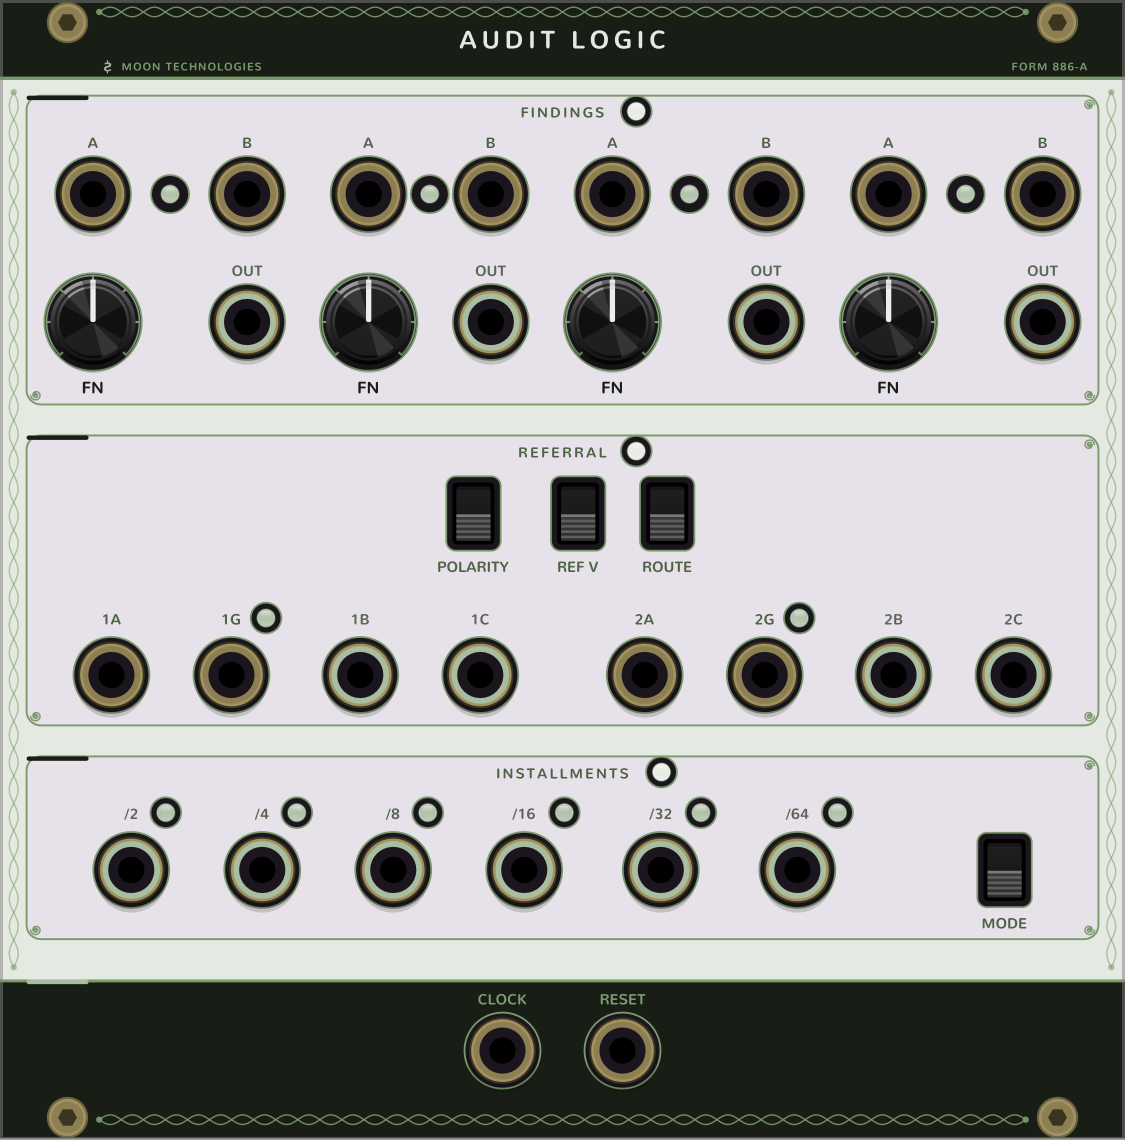
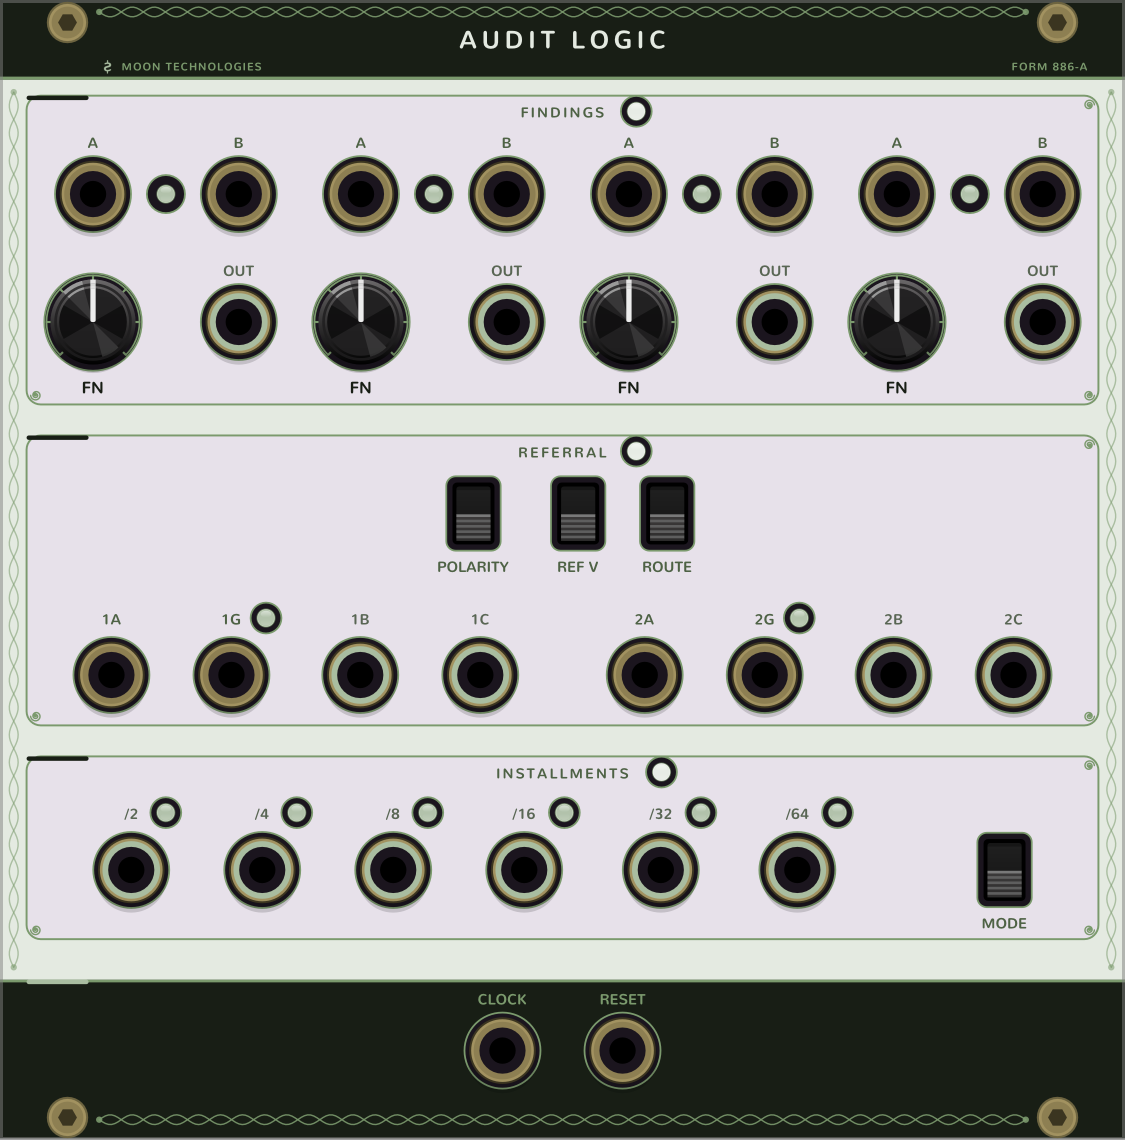
panelkit: a widget may live in a gutter, and is sized against its own row
`between=` hung a widget in the gap between two columns inside a run. A boundary
*between* runs is also a gap and a wider one, but it was a single figure shared
by every boundary on the row, so nothing could be put in one. Gutters are sized
individually now, which is what lets Kickback's BURST switch sit between the
ratio knobs and the column of gate outputs -- deliberately separate runs.

Two faults found while using it, both the same mistake in different places. An
interstitial was sized and centred against the *columns* either side of it, and
a column's reach is the widest thing any row puts in it. On Kickback that is a
lit "TOM III" four rows above the switch and a side-label on the gate column --
23 mm of text the switch never has to clear. Sized off the columns it cost five
HP; centred off them it landed on the label, which the linter caught. Both are
measured against the row the widget is actually on.

The two are also measured differently, which is the part that took a wrong turn
first: a gap inside a run is a pitch, centre to centre, while a gutter is edge
to edge between two columns' reaches. Sizing a gutter with the pitch formula
buys the width twice and cost four HP.

Also fixes AuditLogic's grouping, which was stale rather than badly framed:
`groups=(3, 3, 3, 3)` described four gates of three columns, and when the
indicator lights stopped owning columns the row became eight wide. The gutters
[…]

Changed region(s): [[0.1244, 0.1228, 0.9022, 0.3684]]

diff --git a/panelkit/layout.py b/panelkit/layout.py
@@ -315,10 +315,30 @@ def _cols_of(row):
     return out
 
 
+def _reach(row, it, side):
+    """How far one item reaches to the left or right of its own centre."""
+    if it is None:
+        return 0.0
+    hw = ink_hw(it)
+    if row.silent:
+        return hw
+    ll, rr = label_ext(it)
+    return max(hw, ll if side == "L" else rr)
+
+
 def _inter(rowset):
-    """(a, b) -> the widest half-extent any row hangs in that gap."""
+    """(a, b) -> (half-extent, the gap that pair needs to hold it).
+
+    The gap is measured against what *that row* puts either side of it, not
+    against the columns' reaches. A column's reach is the widest thing any row
+    puts in it, and on Kickback that is a lit "TOM III" on the trigger row and a
+    side-label on the gate column -- 23 mm of text that the BURST switch, four
+    rows below both, never has to clear. Sized off the columns the switch cost
+    five HP; sized off its own row it costs none."""
     out = {}
     for row in rowset:
+        at = _cols_of(row)
+        by_col = {c: o for c, o in zip(at, row.items) if c is not None}
         for it in row.items:
             b = getattr(it, "between", None)
             if not b:
@@ -327,8 +347,11 @@ def _inter(rowset):
             if not row.silent:
                 ll, rr = label_ext(it)
                 hw = max(hw, ll, rr)
-            key = (min(b), max(b))
-            out[key] = max(out.get(key, 0.0), hw)
+            a0, b0 = min(b), max(b)
+            ra = _reach(row, by_col.get(a0), "R")
+            rb = _reach(row, by_col.get(b0), "L")
+            phw, pra, prb = out.get((a0, b0), (0.0, 0.0, 0.0))
+            out[(a0, b0)] = (max(phw, hw), max(pra, ra), max(prb, rb))
     return out
 
 
@@ -352,7 +375,7 @@ def _cells(rowset):
     return [cells.get(c, (0.0, 0.0, "knob", 0.0)) for c in range(n)]
 
 
-def _runs(cols, groups=()):
+def _runs(cols, groups=(), inter=None):
     """Split the columns into evenly spaced runs, breaking where a row changes
     gear. Comparable columns stay together even across classes, because three
     knobs and a jack of nearly the same size still want one even pitch, and an
@@ -378,6 +401,27 @@ def _runs(cols, groups=()):
         else:
             runs.append([c])
     return runs
+
+
+def _gutters(cols, runs, hm, inter=None):
+    """The width of each boundary between runs.
+
+    A gutter is where a row changes gear, and it is usually the same everywhere
+    on a row. It is not, when something is placed in one: Kickback's BURST
+    switch sits between the ratio knobs and the column of gate outputs, which
+    are deliberately separate runs. Sizing the boundaries individually is what
+    lets a widget live in a gutter rather than only in a gap inside a run."""
+    out = []
+    for r, nxt in zip(runs, runs[1:]):
+        g = hm["GROUP_GAP"]
+        a, b = r[-1], nxt[0]
+        held = (inter or {}).get((min(a, b), max(a, b)))
+        if held:
+            hw, ra, rb = held
+            spare = (cols[a][1] - ra) + (cols[b][0] - rb)
+            g = max(g, 2 * INTER_GAP + 2 * hw - spare)
+        out.append(g)
+    return out
 
 
 def _run_pitch(cols, run, hm, inter=None):
@@ -413,9 +457,10 @@ def _run_gaps(cols, run, hm, inter=None):
             g = max(g, VCV_PITCH_KNOB if max(ia, ib) >= VCV_KNOB_INK
                     else VCV_PITCH_SMALL)
         # something living in this gap has to fit in it
-        hw = (inter or {}).get((min(a, b), max(a, b)))
-        if hw:
-            g = max(g, cols[a][1] + INTER_GAP + 2 * hw + INTER_GAP + cols[b][0])
+        held = (inter or {}).get((min(a, b), max(a, b)))
+        if held:
+            hw, ra, rb = held
+            g = max(g, ra + INTER_GAP + 2 * hw + INTER_GAP + rb)
         out.append(g)
     return out or [0.0]
 
@@ -425,12 +470,13 @@ def natural_span(cols, hm, groups=(), inter=None):
     decides how many HP a panel actually is."""
     if not cols:
         return 0.0
-    runs = _runs(cols, groups)
+    runs = _runs(cols, groups, inter)
     total = 0.0
     for run in runs:
         total += (cols[run[0]][0] + cols[run[-1]][1]
                   + sum(_run_gaps(cols, run, hm, inter)))
-    return total + (len(runs) - 1) * hm["GROUP_GAP"] + 2 * hm["EDGE_PAD"]
+    return (total + sum(_gutters(cols, runs, hm, inter))
+            + 2 * hm["EDGE_PAD"])
 
 
 def place_columns(rowset, x_lo, x_hi, hm, groups=()):
@@ -441,13 +487,13 @@ def place_columns(rowset, x_lo, x_hi, hm, groups=()):
     if not cols:
         return [], 0.0
     inter = _inter(rowset)
-    runs = _runs(cols, groups)
+    runs = _runs(cols, groups, inter)
     gaps = [_run_gaps(cols, r, hm, inter) for r in runs]
     ends = [cols[r[0]][0] + cols[r[-1]][1] for r in runs]
 
     avail = (x_hi - x_lo) - 2 * hm["EDGE_PAD"]
-    need = sum(ends) + sum(sum(g) for g in gaps) \
-        + (len(runs) - 1) * hm["GROUP_GAP"]
+    gutters = _gutters(cols, runs, hm, inter)
+    need = sum(ends) + sum(sum(g) for g in gaps) + sum(gutters)
     if need > avail:
         return None, need - avail
 
@@ -476,7 +522,7 @@ def place_columns(rowset, x_lo, x_hi, hm, groups=()):
     #    its slack where the change happens instead of at one end.
     units = (len(runs) - 1) + 2 * hm["MARGIN_SHARE"]
     unit = slack / units if units > 1e-6 else 0.0
-    gutter = hm["GROUP_GAP"] + unit
+    gutters = [g + unit for g in gutters]
     margin = hm["EDGE_PAD"] + hm["MARGIN_SHARE"] * unit
 
     centres = [0.0] * len(cols)
@@ -487,7 +533,8 @@ def place_columns(rowset, x_lo, x_hi, hm, groups=()):
         for k, c in enumerate(run[1:]):
             x += gaps[i][k] + grow[i]
             centres[c] = x
-        x = centres[run[-1]] + cols[run[-1]][1] + gutter
+        if i < len(gutters):
+            x = centres[run[-1]] + cols[run[-1]][1] + gutters[i]
     return centres, 0.0
 
 
@@ -555,11 +602,21 @@ def solve_x(panel):
                 continue
             if kind == "block":
                 solved.append(centres)
+        cols = _cells(rows)
         for row in rows:
             for c, it in zip(_cols_of(row), row.items):
                 if c is None:
+                    # Centred in the *clear* space, not between the two column
+                    # centres: a column whose label reaches out sideways (a jack
+                    # naming itself to its left, say) owns ground well past its
+                    # own centre, and splitting centre to centre drops the
+                    # widget straight onto that text.
                     a, b = it.between
-                    it.x = (centres[a] + centres[b]) / 2.0
+                    at = _cols_of(row)
+                    by_col = {k: o for k, o in zip(at, row.items) if k is not None}
+                    lo = centres[a] + _reach(row, by_col.get(a), "R")
+                    hi = centres[b] - _reach(row, by_col.get(b), "L")
+                    it.x = (lo + hi) / 2.0
                 else:
                     it.x = centres[c]
     return short

diff --git a/src/AuditLogic/Panel.hpp b/src/AuditLogic/Panel.hpp
@@ -26,20 +26,20 @@ static const Label LABELS[] = {
 	{122.8000f,   8.0000f,  4.60f, 0.40f, SAGE     , NVG_ALIGN_RIGHT | NVG_ALIGN_BASELINE, false, "FORM 886-A"},
 	{ 63.5000f,  13.3000f,  6.00f, 0.60f, SAGE_DARK, NVG_ALIGN_CENTER | NVG_ALIGN_BASELINE, false, "FINDINGS"},
 	{ 10.5000f,  16.7203f,  6.20f, 0.00f, SAGE_DARK, NVG_ALIGN_CENTER | NVG_ALIGN_BASELINE, false, "A"},
-	{ 27.8940f,  16.7203f,  6.20f, 0.00f, SAGE_DARK, NVG_ALIGN_CENTER | NVG_ALIGN_BASELINE, false, "B"},
-	{ 41.6180f,  16.7203f,  6.20f, 0.00f, SAGE_DARK, NVG_ALIGN_CENTER | NVG_ALIGN_BASELINE, false, "A"},
-	{ 55.4080f,  16.7203f,  6.20f, 0.00f, SAGE_DARK, NVG_ALIGN_CENTER | NVG_ALIGN_BASELINE, false, "B"},
-	{ 69.1320f,  16.7203f,  6.20f, 0.00f, SAGE_DARK, NVG_ALIGN_CENTER | NVG_ALIGN_BASELINE, false, "A"},
-	{ 86.5260f,  16.7203f,  6.20f, 0.00f, SAGE_DARK, NVG_ALIGN_CENTER | NVG_ALIGN_BASELINE, false, "B"},
-	{100.3160f,  16.7203f,  6.20f, 0.00f, SAGE_DARK, NVG_ALIGN_CENTER | NVG_ALIGN_BASELINE, false, "A"},
+	{ 26.9600f,  16.7203f,  6.20f, 0.00f, SAGE_DARK, NVG_ALIGN_CENTER | NVG_ALIGN_BASELINE, false, "B"},
+	{ 40.7500f,  16.7203f,  6.20f, 0.00f, SAGE_DARK, NVG_ALIGN_CENTER | NVG_ALIGN_BASELINE, false, "A"},
+	{ 57.2100f,  16.7203f,  6.20f, 0.00f, SAGE_DARK, NVG_ALIGN_CENTER | NVG_ALIGN_BASELINE, false, "B"},
+	{ 71.0000f,  16.7203f,  6.20f, 0.00f, SAGE_DARK, NVG_ALIGN_CENTER | NVG_ALIGN_BASELINE, false, "A"},
+	{ 87.4600f,  16.7203f,  6.20f, 0.00f, SAGE_DARK, NVG_ALIGN_CENTER | NVG_ALIGN_BASELINE, false, "B"},
+	{101.2500f,  16.7203f,  6.20f, 0.00f, SAGE_DARK, NVG_ALIGN_CENTER | NVG_ALIGN_BASELINE, false, "A"},
 	{117.7100f,  16.7203f,  6.20f, 0.00f, SAGE_DARK, NVG_ALIGN_CENTER | NVG_ALIGN_BASELINE, false, "B"},
 	{ 10.5000f,  44.4590f,  7.00f, 0.00f, INK      , NVG_ALIGN_CENTER | NVG_ALIGN_BASELINE, false, "FN"},
-	{ 27.8940f,  31.1621f,  6.20f, 0.00f, MINT_DARK, NVG_ALIGN_CENTER | NVG_ALIGN_BASELINE, false, "OUT"},
-	{ 41.6180f,  44.4590f,  7.00f, 0.00f, INK      , NVG_ALIGN_CENTER | NVG_ALIGN_BASELINE, false, "FN"},
-	{ 55.4080f,  31.1621f,  6.20f, 0.00f, MINT_DARK, NVG_ALIGN_CENTER | NVG_ALIGN_BASELINE, false, "OUT"},
-	{ 69.1320f,  44.4590f,  7.00f, 0.00f, INK      , NVG_ALIGN_CENTER | NVG_ALIGN_BASELINE, false, "FN"},
-	{ 86.5260f,  31.1621f,  6.20f, 0.00f, MINT_DARK, NVG_ALIGN_CENTER | NVG_ALIGN_BASELINE, false, "OUT"},
-	{100.3160f,  44.4590f,  7.00f, 0.00f, INK      , NVG_ALIGN_CENTER | NVG_ALIGN_BASELINE, false, "FN"},
+	{ 26.9600f,  31.1621f,  6.20f, 0.00f, MINT_DARK, NVG_ALIGN_CENTER | NVG_ALIGN_BASELINE, false, "OUT"},
+	{ 40.7500f,  44.4590f,  7.00f, 0.00f, INK      , NVG_ALIGN_CENTER | NVG_ALIGN_BASELINE, false, "FN"},
+	{ 57.2100f,  31.1621f,  6.20f, 0.00f, MINT_DARK, NVG_ALIGN_CENTER | NVG_ALIGN_BASELINE, false, "OUT"},
+	{ 71.0000f,  44.4590f,  7.00f, 0.00f, INK      , NVG_ALIGN_CENTER | NVG_ALIGN_BASELINE, false, "FN"},
+	{ 87.4600f,  31.1621f,  6.20f, 0.00f, MINT_DARK, NVG_ALIGN_CENTER | NVG_ALIGN_BASELINE, false, "OUT"},
+	{101.2500f,  44.4590f,  7.00f, 0.00f, INK      , NVG_ALIGN_CENTER | NVG_ALIGN_BASELINE, false, "FN"},
 	{117.7100f,  31.1621f,  6.20f, 0.00f, MINT_DARK, NVG_ALIGN_CENTER | NVG_ALIGN_BASELINE, false, "OUT"},
 	{ 63.5000f,  51.6590f,  6.00f, 0.60f, SAGE_DARK, NVG_ALIGN_CENTER | NVG_ALIGN_BASELINE, false, "REFERRAL"},
 	{ 53.4500f,  64.5793f,  6.20f, 0.00f, SAGE_DARK, NVG_ALIGN_CENTER | NVG_ALIGN_BASELINE, false, "POLARITY"},
@@ -75,24 +75,24 @@ static inline void addLabels(app::ModuleWidget* mw) {
 // Positions are mm; feed them to mm() or createParamCentered.
 static const Vec VERDICT_POS = Vec(71.8296, 12.5685);
 static const Vec A1_POS = Vec(10.5000, 21.9103);
-static const Vec OUT1_LED_POS = Vec(19.1970, 21.9103);
-static const Vec B1_POS = Vec(27.8940, 21.9103);
-static const Vec A2_POS = Vec(41.6180, 21.9103);
-static const Vec OUT2_LED_POS = Vec(48.5130, 21.9103);
-static const Vec B2_POS = Vec(55.4080, 21.9103);
-static const Vec A3_POS = Vec(69.1320, 21.9103);
-static const Vec OUT3_LED_POS = Vec(77.8290, 21.9103);
-static const Vec B3_POS = Vec(86.5260, 21.9103);
-static const Vec A4_POS = Vec(100.3160, 21.9103);
-static const Vec OUT4_LED_POS = Vec(109.0130, 21.9103);
+static const Vec OUT1_LED_POS = Vec(18.7300, 21.9103);
+static const Vec B1_POS = Vec(26.9600, 21.9103);
+static const Vec A2_POS = Vec(40.7500, 21.9103);
+static const Vec OUT2_LED_POS = Vec(48.9800, 21.9103);
+static const Vec B2_POS = Vec(57.2100, 21.9103);
+static const Vec A3_POS = Vec(71.0000, 21.9103);
+static const Vec OUT3_LED_POS = Vec(79.2300, 21.9103);
+static const Vec B3_POS = Vec(87.4600, 21.9103);
+static const Vec A4_POS = Vec(101.2500, 21.9103);
+static const Vec OUT4_LED_POS = Vec(109.4800, 21.9103);
 static const Vec B4_POS = Vec(117.7100, 21.9103);
 static const Vec FN1_POS = Vec(10.5000, 36.3521);
-static const Vec OUT1_POS = Vec(27.8940, 36.3521);
-static const Vec FN2_POS = Vec(41.6180, 36.3521);
-static const Vec OUT2_POS = Vec(55.4080, 36.3521);
-static const Vec FN3_POS = Vec(69.1320, 36.3521);
-static const Vec OUT3_POS = Vec(86.5260, 36.3521);
-static const Vec FN4_POS = Vec(100.3160, 36.3521);
+static const Vec OUT1_POS = Vec(26.9600, 36.3521);
+static const Vec FN2_POS = Vec(40.7500, 36.3521);
+static const Vec OUT2_POS = Vec(57.2100, 36.3521);
+static const Vec FN3_POS = Vec(71.0000, 36.3521);
+static const Vec OUT3_POS = Vec(87.4600, 36.3521);
+static const Vec FN4_POS = Vec(101.2500, 36.3521);
 static const Vec OUT4_POS = Vec(117.7100, 36.3521);
 static const Vec ACTIVE_POS = Vec(71.8296, 50.9275);
 static const Vec POLARITY_POS = Vec(53.4500, 57.9675);

diff --git a/panelkit/__init__.py b/panelkit/__init__.py
@@ -35,7 +35,7 @@ from .spec import (BRAND, Panel, Section, Row, Widget, Glass, Trace, FreeLabel, 
 from . import palette
 from .palette import (INK, FELT, BAND, GLASS as GLASS_COLOUR, RULE, LIME, MINT,
                       CLAY, PAPER, SAGE)
-from .layout import solve, SCALE, required_hp
+from .layout import solve, SCALE, required_hp, GROUP_PAD, INTER_GAP
 from . import render, emit, preview, lint, rack
 
 __all__ = ["BRAND", "Panel", "Section", "Row", "Widget", "Glass", "Trace", "FreeLabel",
@@ -44,7 +44,8 @@ __all__ = ["BRAND", "Panel", "Section", "Row", "Widget", "Glass", "Trace", "Free
            "Switch", "Switch3",
            "Slider", "RADIUS", "build", "palette", "INK", "FELT", "BAND",
            "GLASS_COLOUR", "RULE", "LIME", "MINT", "CLAY", "PAPER", "SAGE",
-           "PX_PER_MM", "MM_PER_PX", "HP_MM", "PANEL_H", "required_hp"]
+           "PX_PER_MM", "MM_PER_PX", "HP_MM", "PANEL_H", "required_hp",
+           "GROUP_PAD", "INTER_GAP"]
 
 
 # --- shorthand constructors, so a spec reads as a list of controls -----------

diff --git a/tools/panels/AuditLogic.py b/tools/panels/AuditLogic.py
@@ -45,7 +45,7 @@ P.sections = [
     # Twelve columns, in four runs of three: the grouping here is what the gates
     # are, not how wide they are, so the section says so outright rather than
     # leaving the solver to guess from twelve identical jacks.
-    Section("FINDINGS", caption_light="verdict", groups=(3, 3, 3, 3), rows=[
+    Section("FINDINGS", caption_light="verdict", groups=(2, 2, 2, 2), rows=[
         # Each gate's light sits between its own A and B, which is what says the
         # two inputs belong to one gate. It is an accessory to that pair, not a
         # column of the panel: `between` hangs it in the gap and widens only
